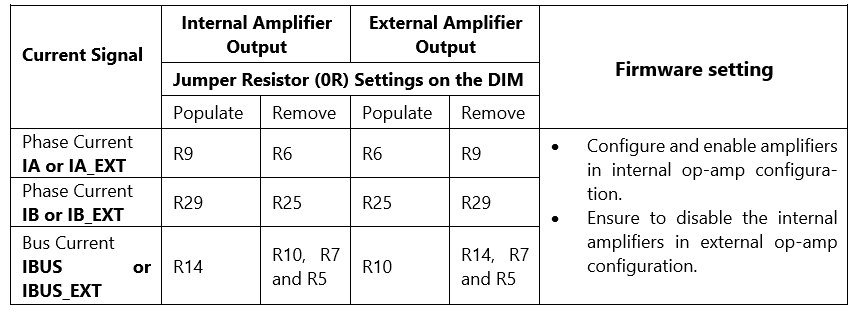
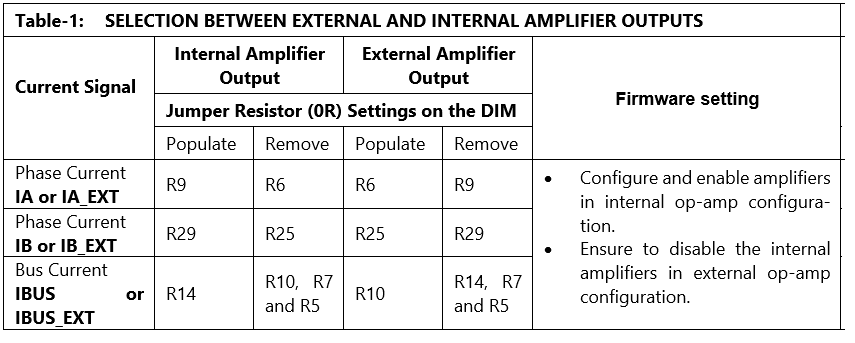
Modified the opamp table

Changed region(s): [[0.0, 0.0, 1.0, 0.9714], [0.6994, 0.2, 0.9123, 0.3143], [0.152, 0.8, 0.2433, 0.8857]]

diff --git a/README.md b/README.md
@@ -42,7 +42,7 @@ To clone or download this application from Github, go to the [main page of this 
      <p style='text-align: justify;'> The Table-1 summarizes the resistors to be populated and removed to convert the DIM from internal op-amp configuration to external op-amp configuration or vice versa.</p>
 
 <p align="center" >
- <img  src="images/Tableopamp.png" width = 400 height = 100></p>
+ <img  src="images/Tableopamp.png"></p>
 
 
 
